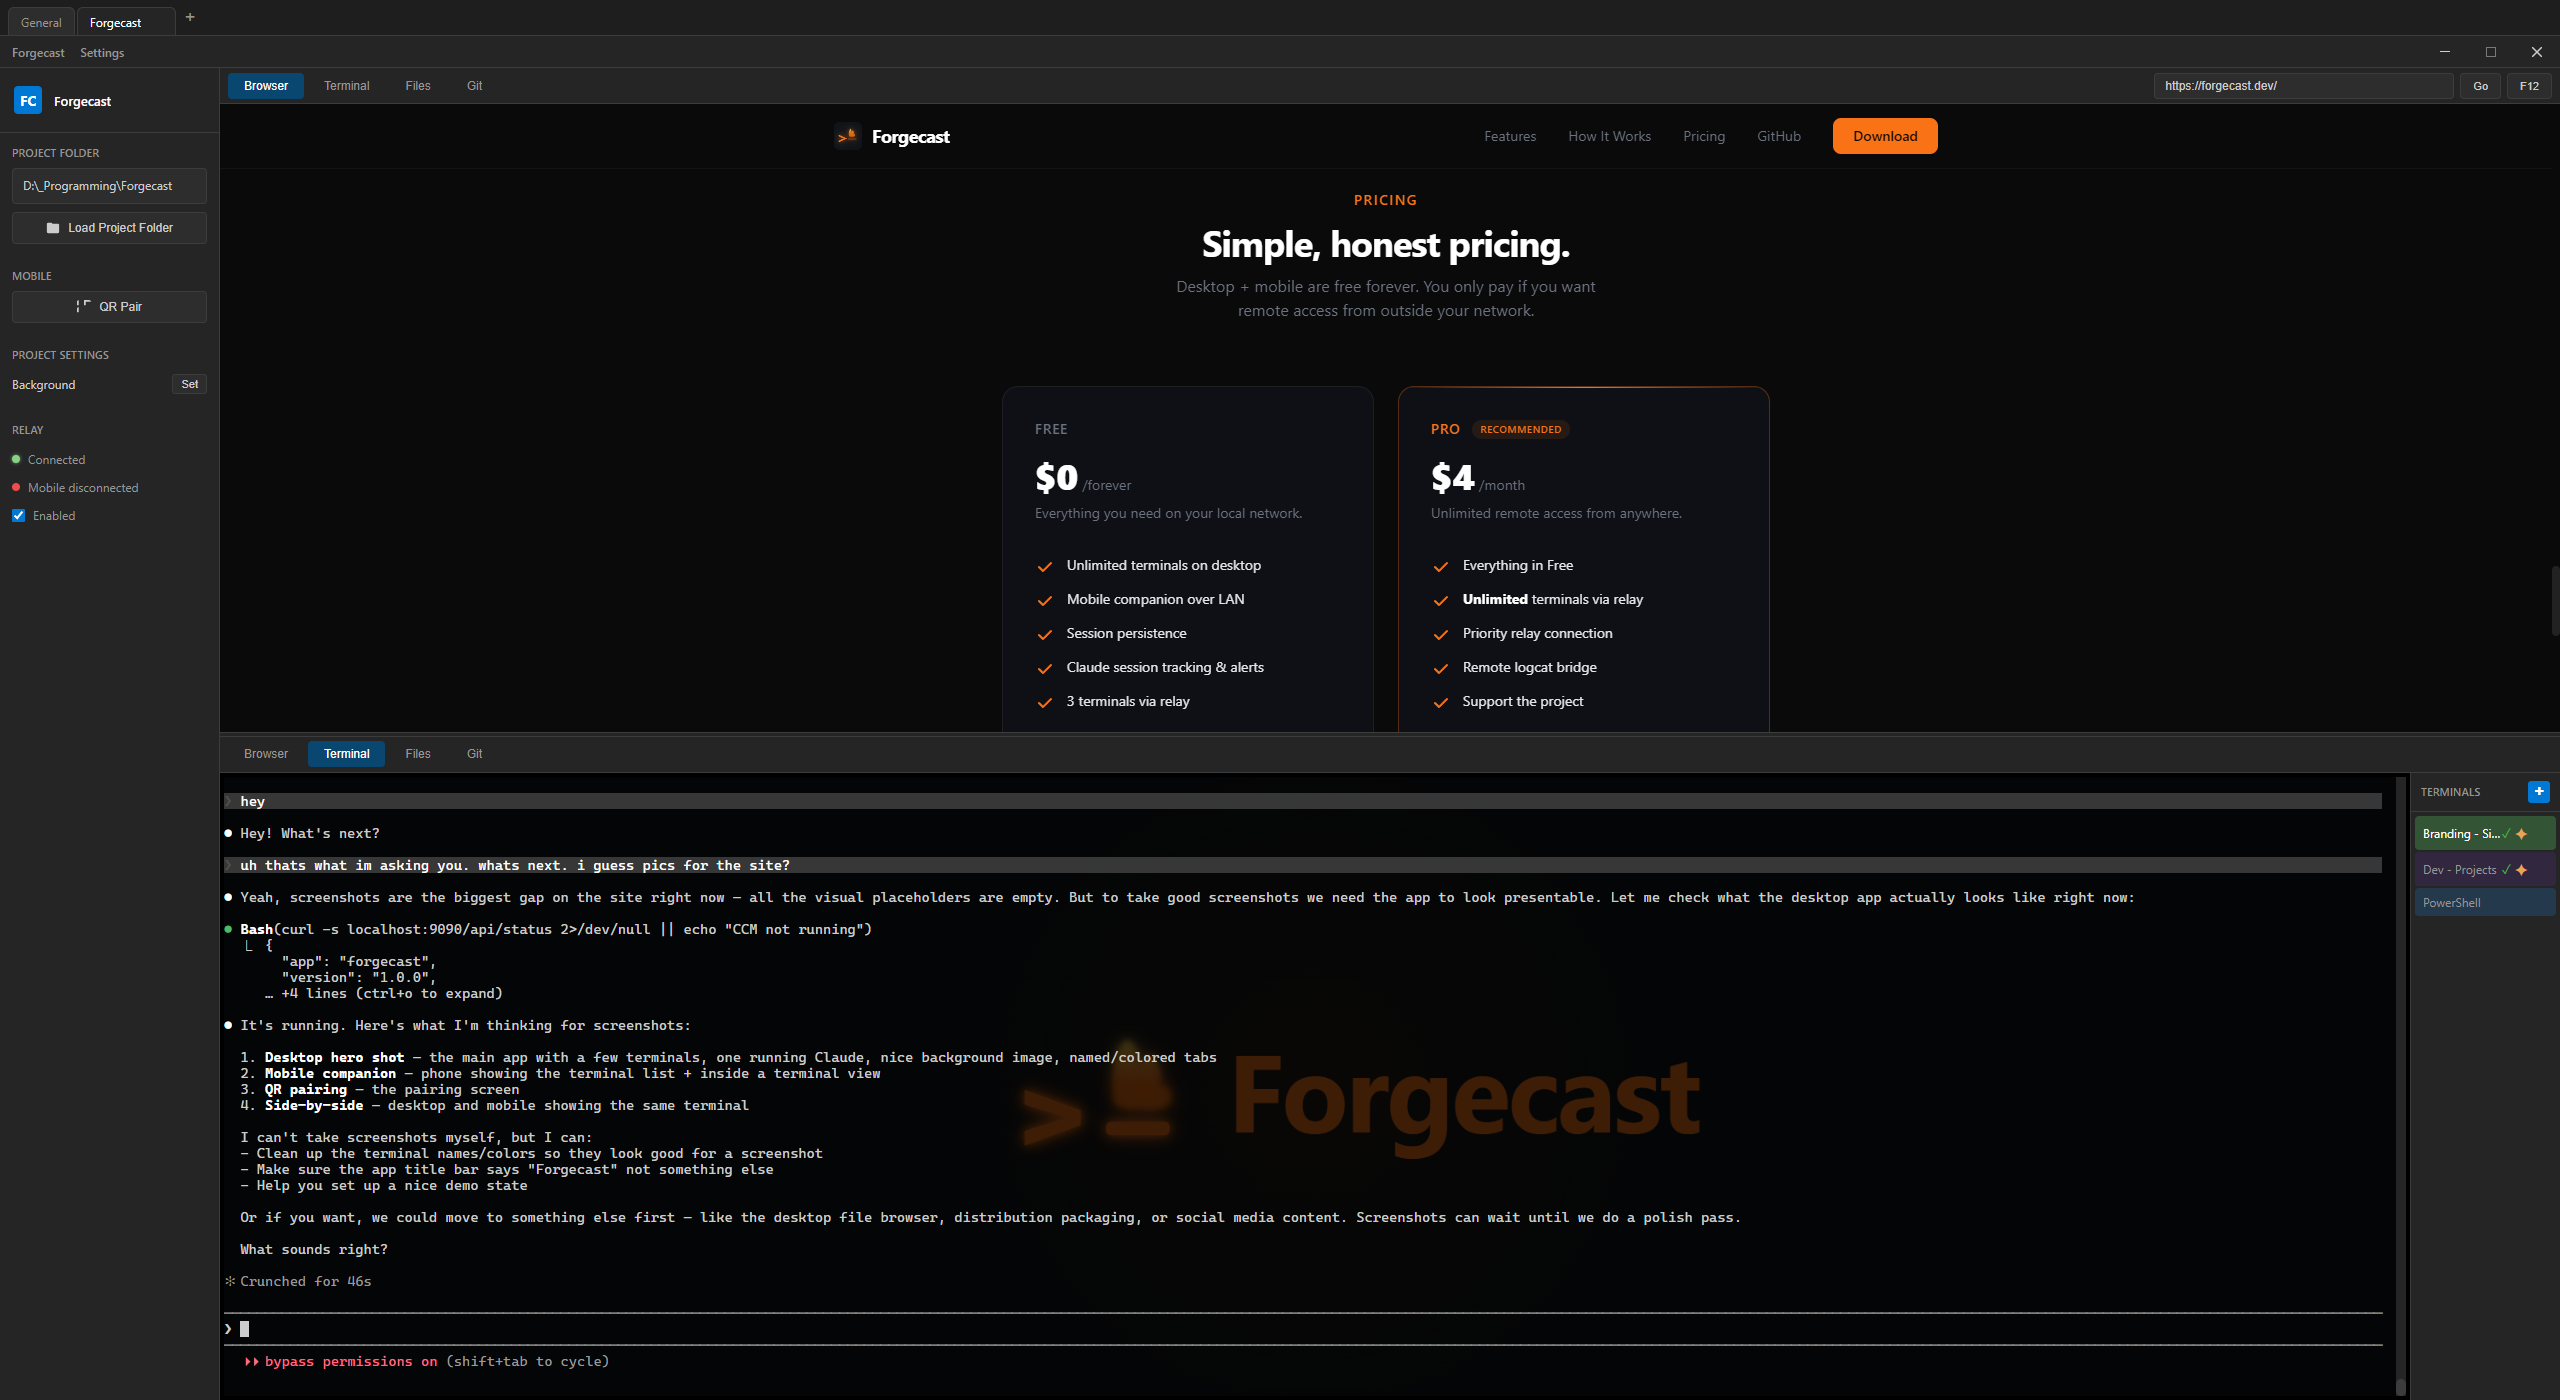
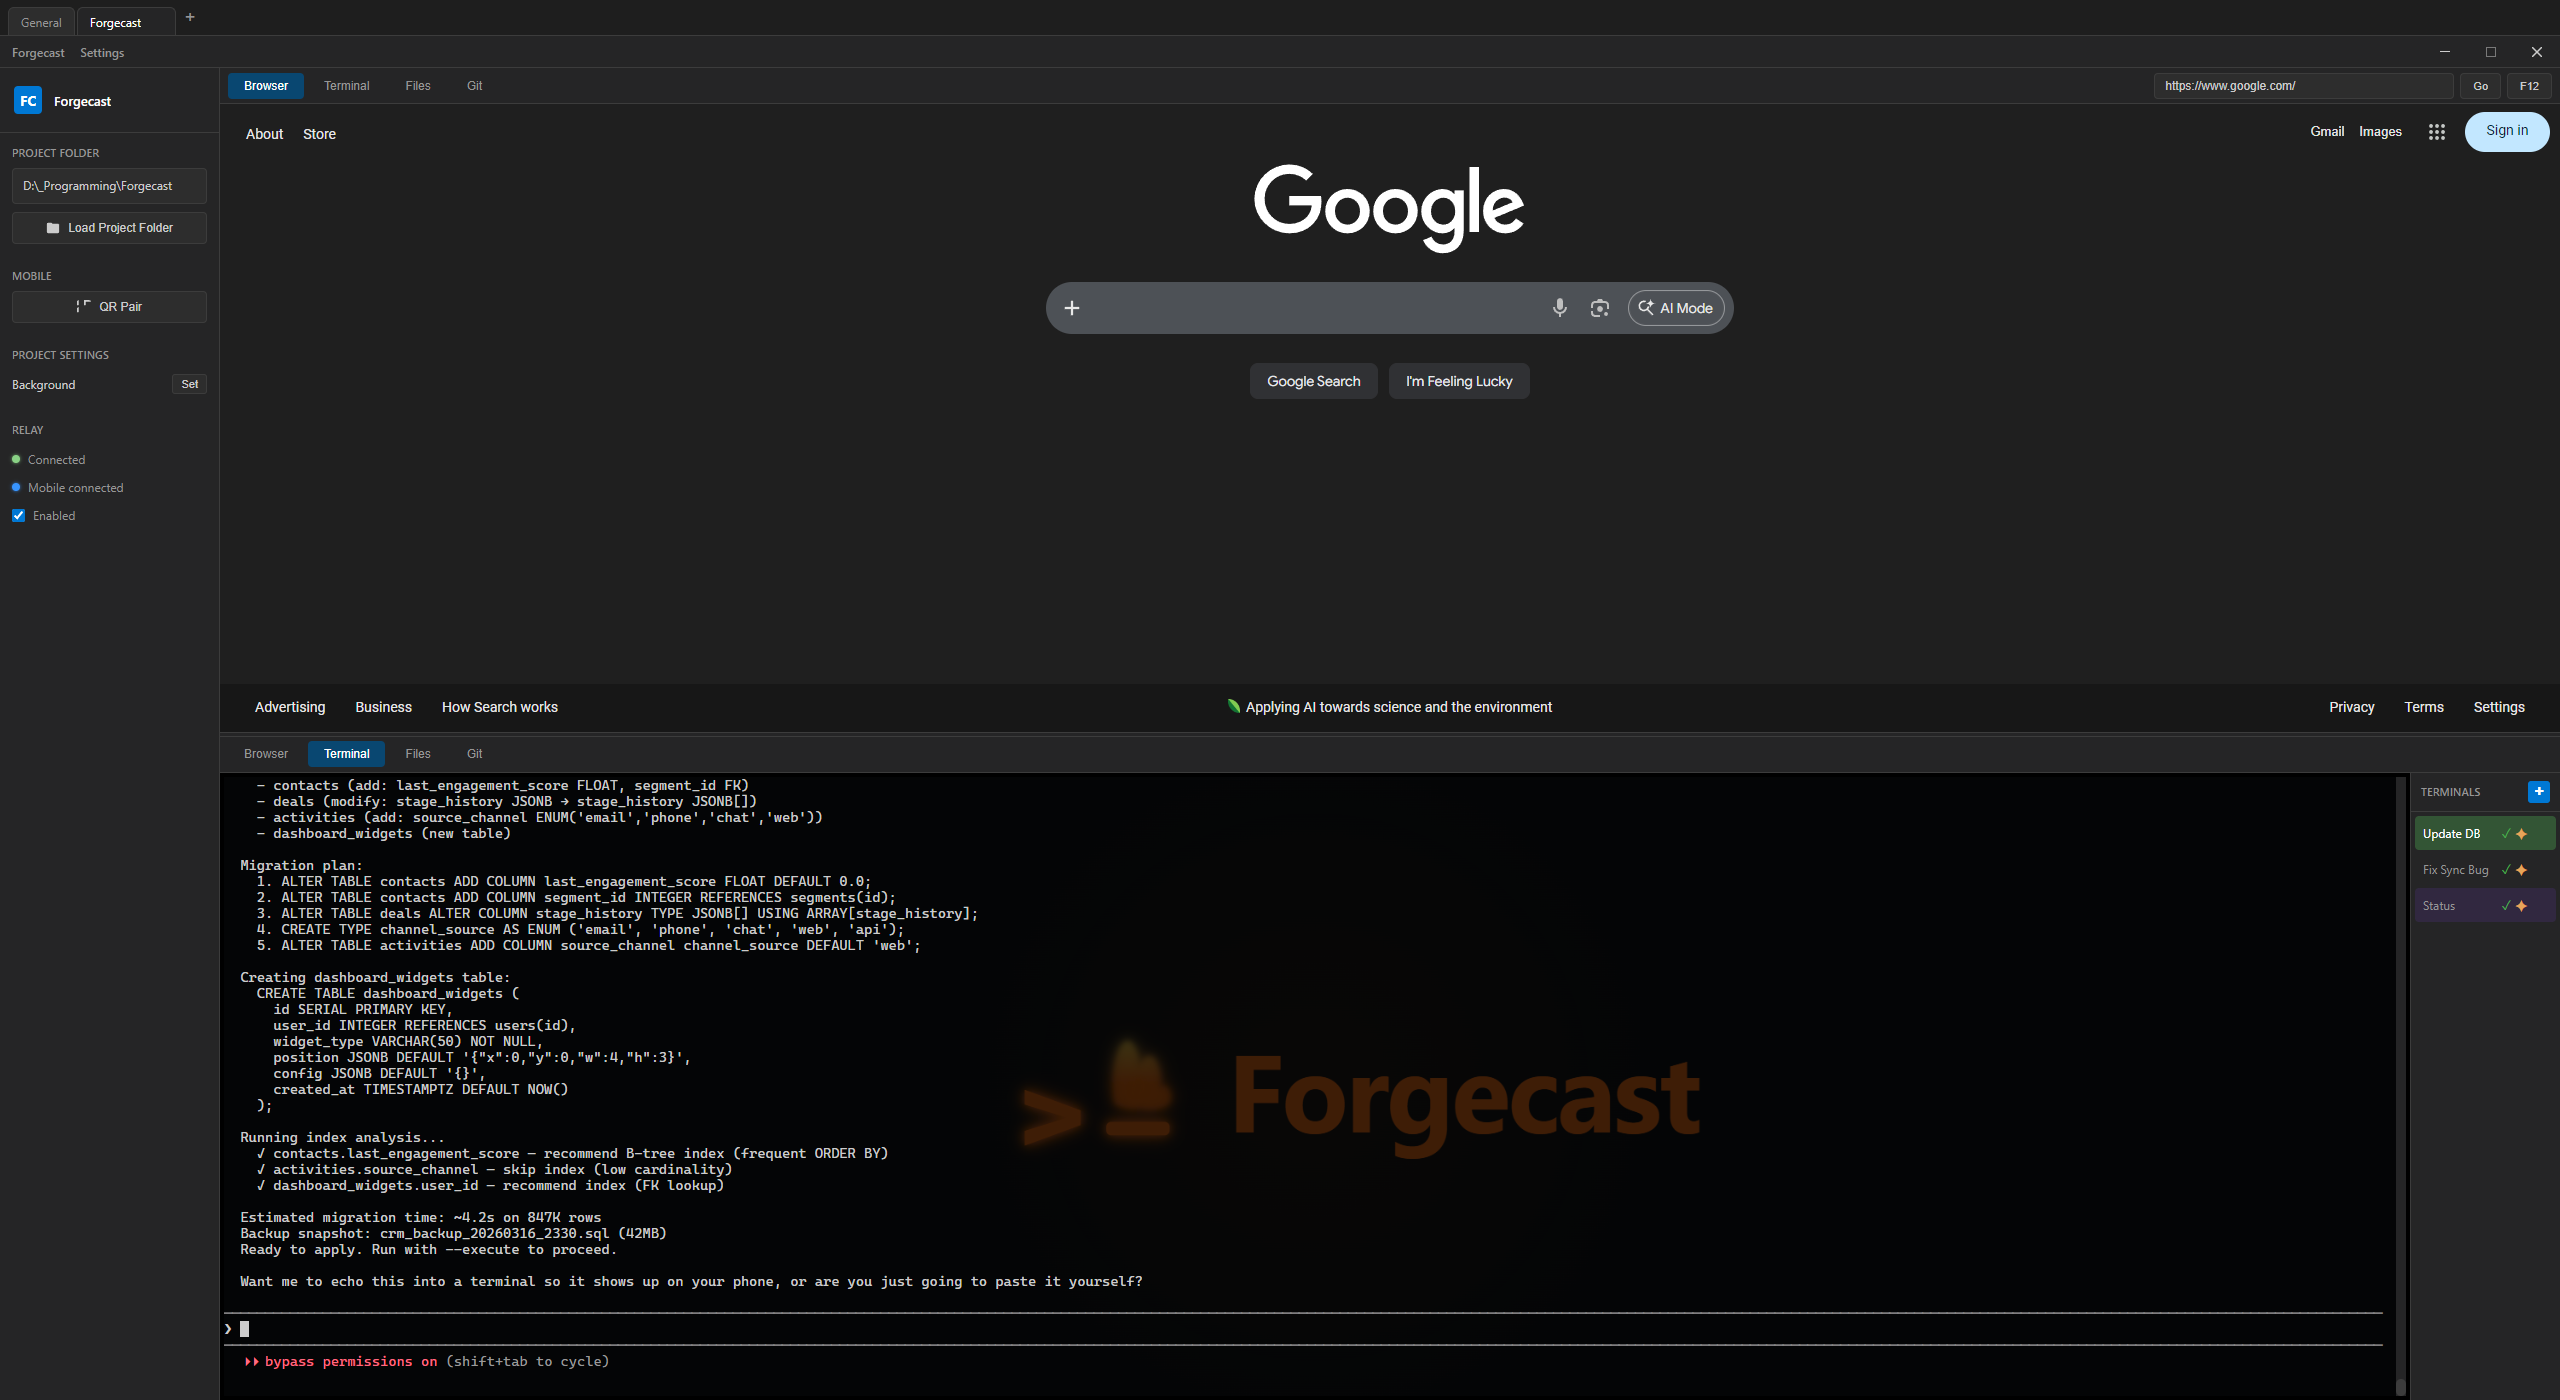
Update hero with CRM database terminal, add dual mobile screenshots
- Desktop hero: now shows database migration output instead of marketing text
- Mobile section: terminal list + terminal view side by side

diff --git a/index.html b/index.html
@@ -315,8 +315,9 @@
 
     <!-- Row 2: Mobile (reversed) -->
     <div class="grid lg:grid-cols-2 gap-12 lg:gap-20 items-center reveal">
-      <div class="order-2 lg:order-1 rounded-2xl border border-white/[0.06] bg-steel overflow-hidden flex items-center justify-center p-8">
-        <img src="img/mobile-terminal-list.png" alt="Forgecast mobile companion showing terminal list with colors and git branches" class="max-h-[480px] rounded-xl shadow-lg" loading="lazy"/>
+      <div class="order-2 lg:order-1 rounded-2xl border border-white/[0.06] bg-steel overflow-hidden flex items-center justify-center gap-4 p-6">
+        <img src="img/mobile-terminal-list.png" alt="Forgecast mobile companion showing terminal list with colors and git branches" class="max-h-[420px] rounded-xl shadow-lg" loading="lazy"/>
+        <img src="img/mobile-terminal-view.png" alt="Forgecast mobile terminal view showing database migration output" class="max-h-[420px] rounded-xl shadow-lg" loading="lazy"/>
       </div>
       <div class="order-1 lg:order-2">
         <h3 class="text-2xl sm:text-3xl font-bold text-white mb-4 tracking-tight">Your phone keeps you connected.</h3>
